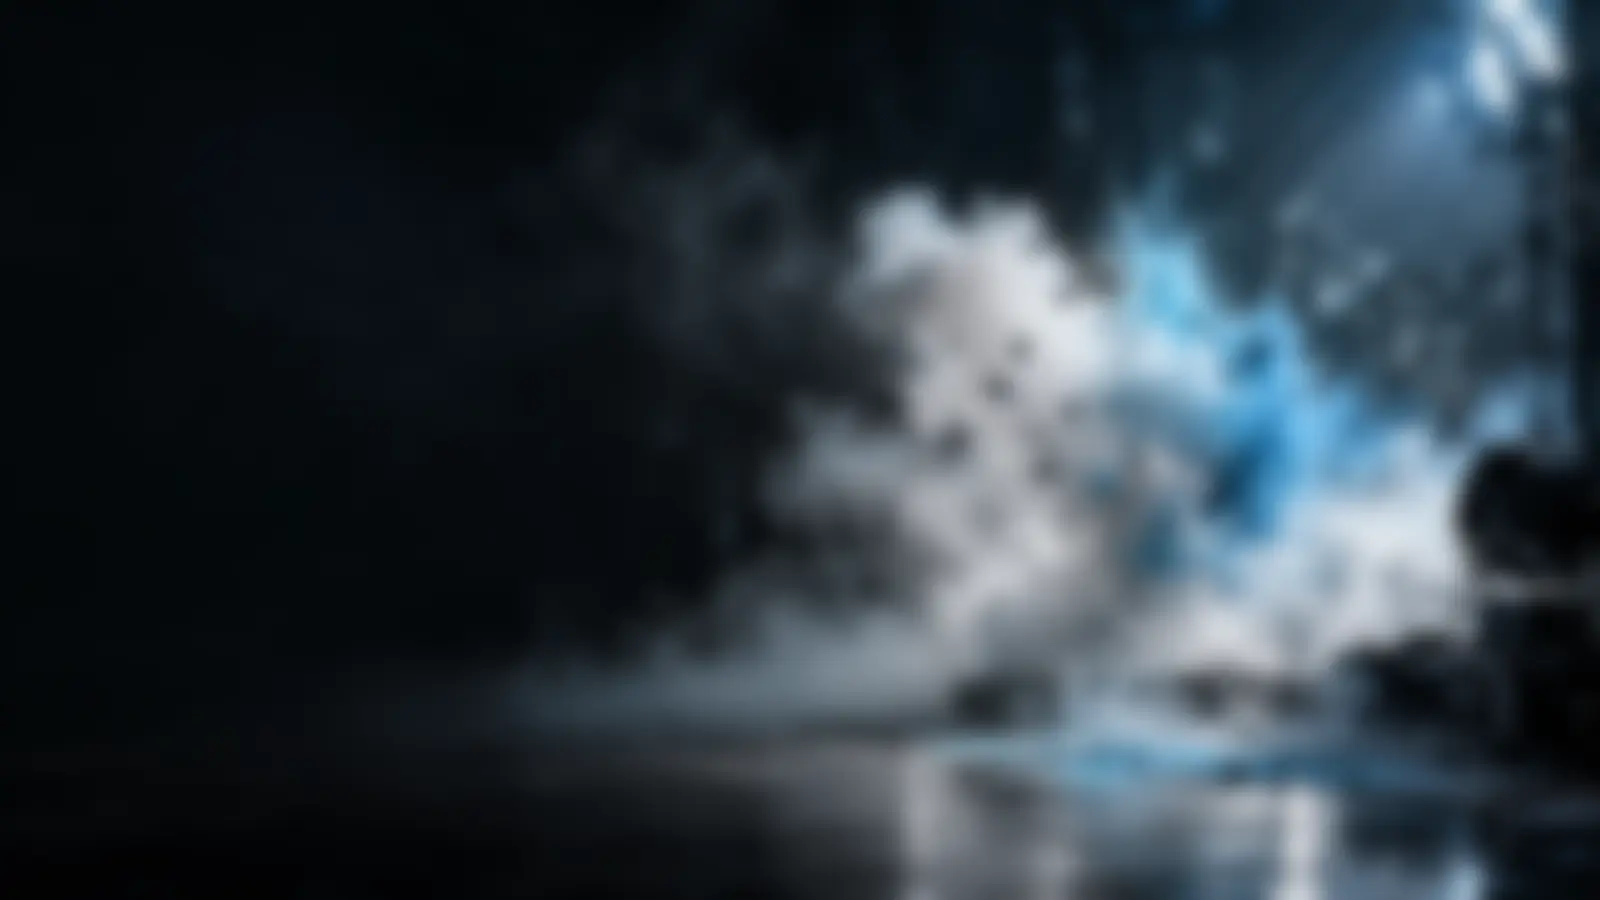
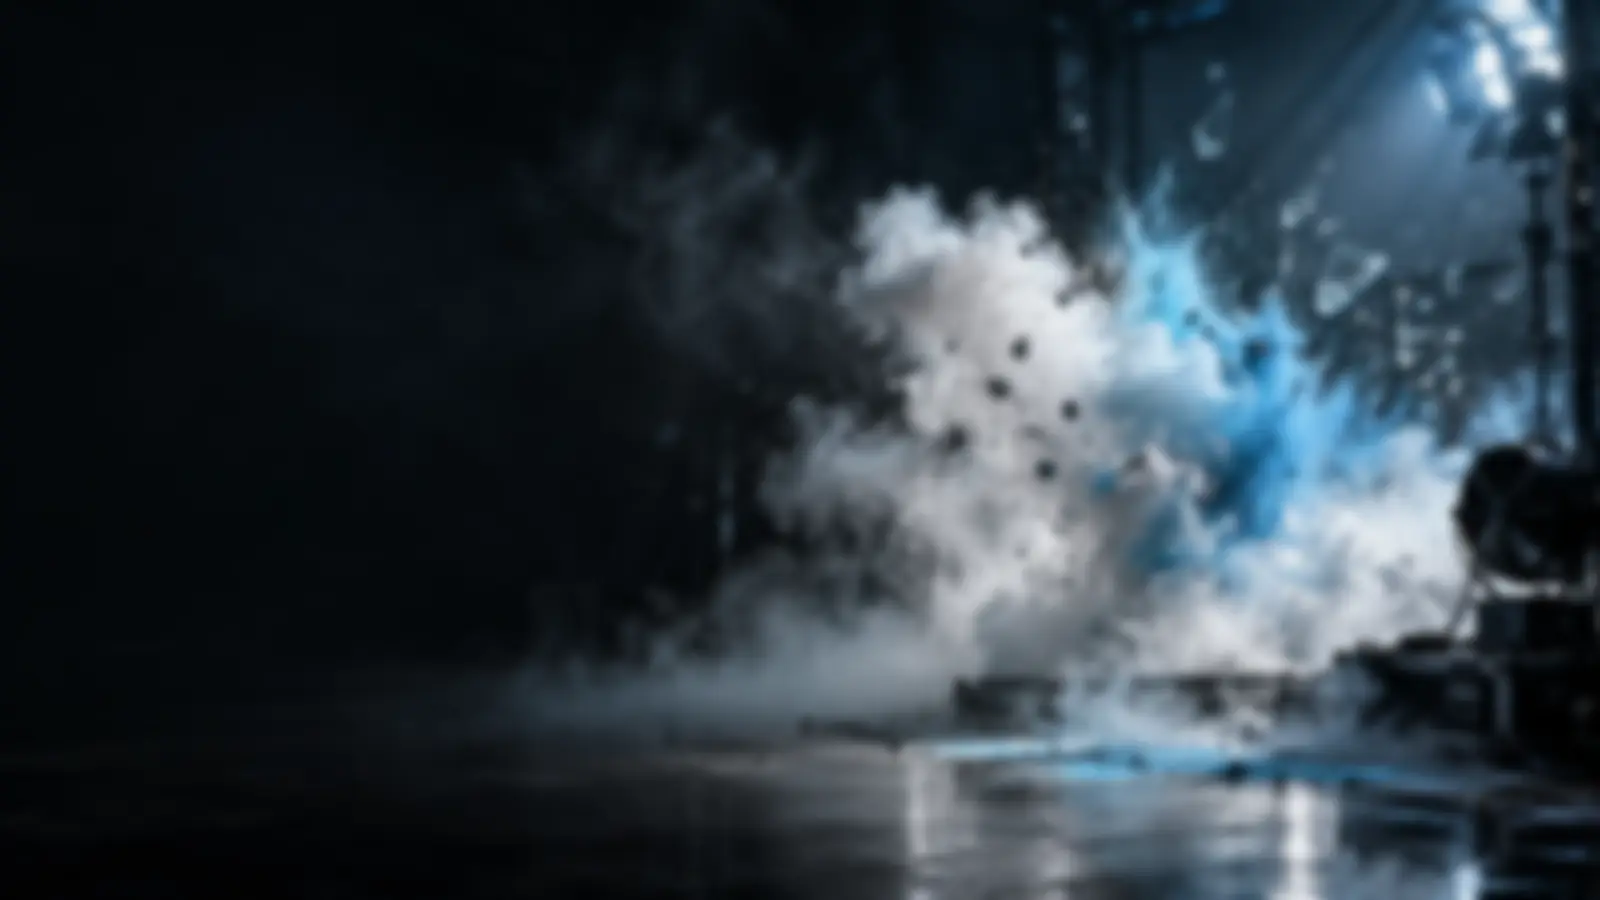
О студии: фоны менее размыты (радиус вдвое меньше)
Claude-Session: https://claude.ai/code/session_01DErsB329YYCxuAnu33porx

diff --git a/tools/atmo.py b/tools/atmo.py
@@ -17,7 +17,7 @@ SRC = ROOT / "assets/img/atmo/src"
 OUT = ROOT / "assets/img/atmo"
 
 # key: blur radius at 1600px (≈ CSS blur in px at that width)
-ITEMS = {"winter": 12, "water": 10, "pyro": 12, "special": 11}
+ITEMS = {"winter": 6, "water": 5, "pyro": 6, "special": 5.5}
 
 
 def main():
